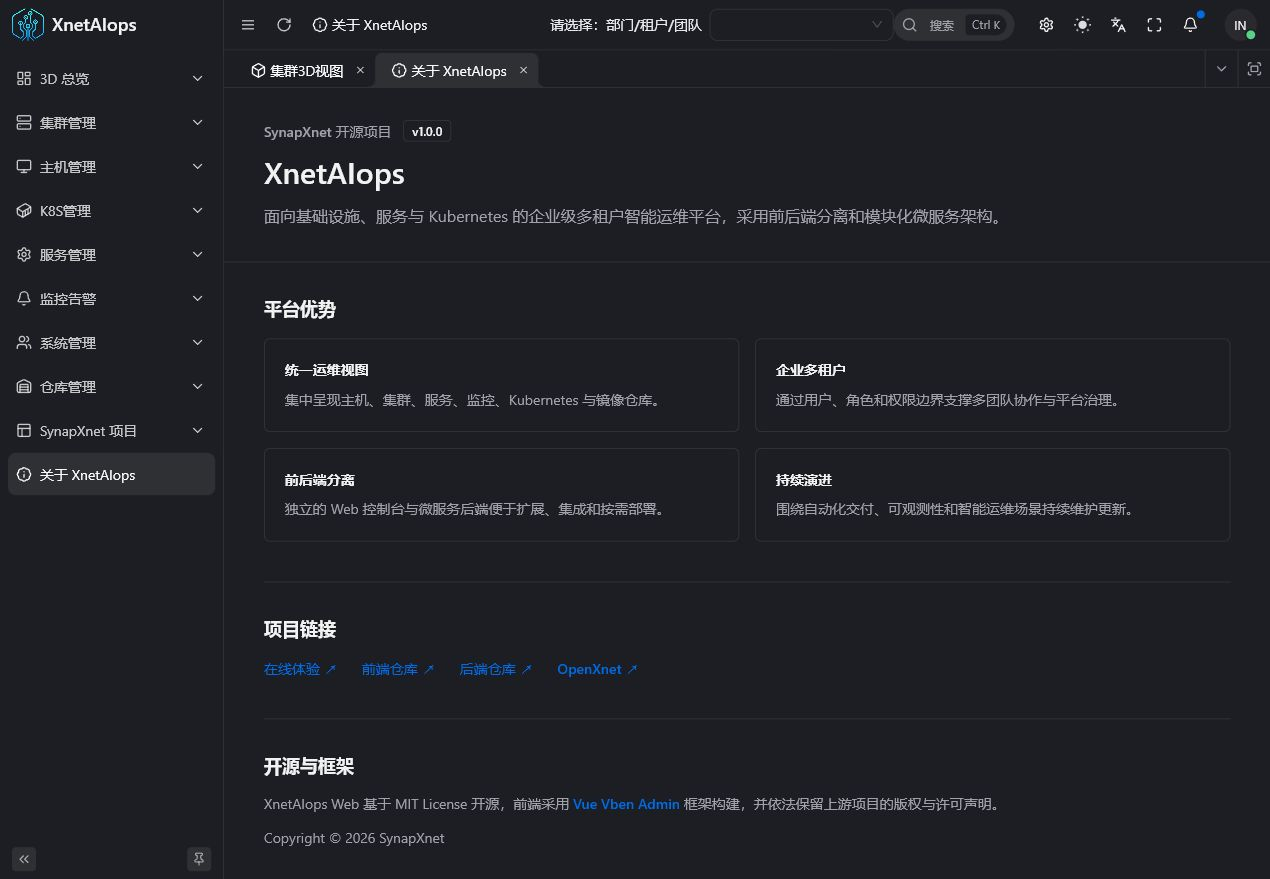
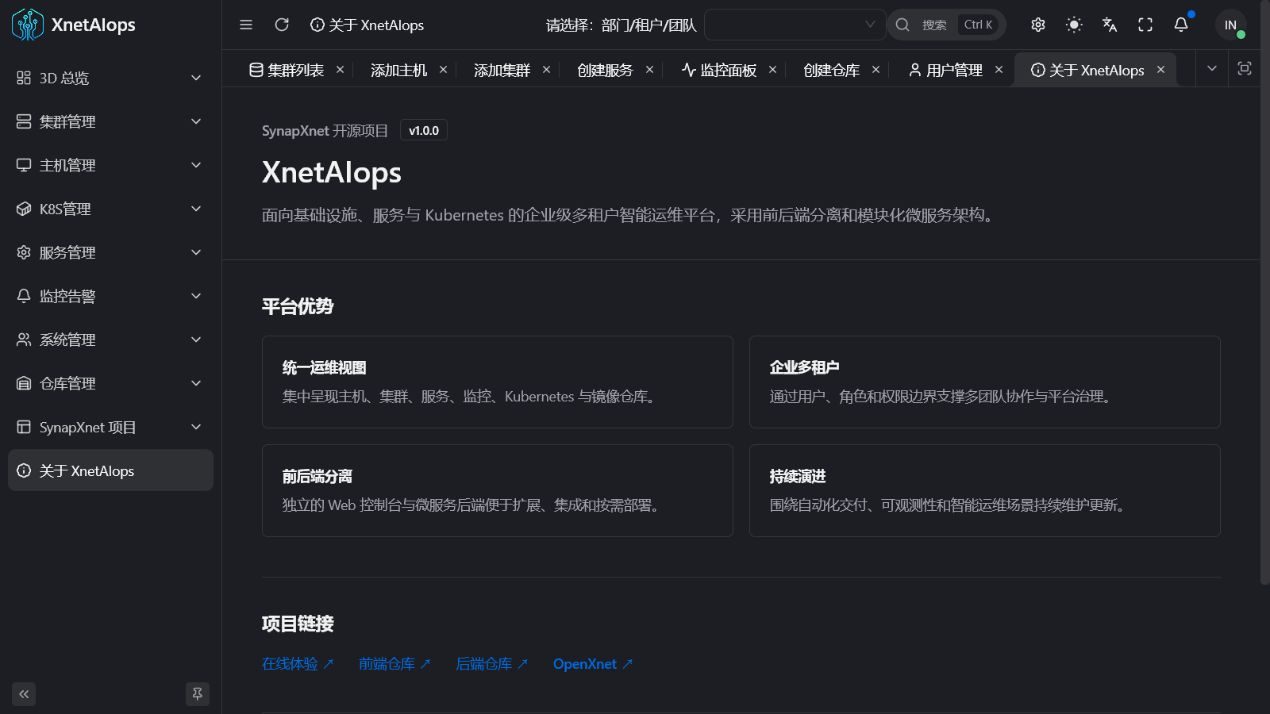
docs: expand XnetAIops screenshot gallery

diff --git a/README.zh-CN.md b/README.zh-CN.md
@@ -1,152 +1,11 @@
-<div align="center"> <a href="https://github.com/anncwb/vue-vben-admin"> <img alt="VbenAdmin Logo" width="215" src="https://unpkg.com/@vbenjs/static-source@0.1.7/source/logo-v1.webp"> </a> <br> <br>
+# XnetAIops Web 中文说明
 
-[![license](https://img.shields.io/github/license/anncwb/vue-vben-admin.svg)](LICENSE)
+XnetAIops Web 是由 **SynapXnet 团队**开源的企业级、多租户智能运维控制台，与后端仓库共同组成前后端分离系统。项目覆盖主机、集群、服务、监控、Kubernetes、镜像仓库与平台权限管理。
 
-<h1>Vue Vben Admin</h1>
-</div>
+完整的项目介绍、模块说明、在线体验、页面截图、部署方式与开源许可统一维护在 [README.md](./README.md)。
 
-[![Quality Gate Status](https://sonarcloud.io/api/project_badges/measure?project=vbenjs_vue-vben-admin&metric=alert_status)](https://sonarcloud.io/summary/new_code?id=vbenjs_vue-vben-admin) ![codeql](https://github.com/vbenjs/vue-vben-admin/actions/workflows/codeql.yml/badge.svg) ![build](https://github.com/vbenjs/vue-vben-admin/actions/workflows/build.yml/badge.svg) ![ci](https://github.com/vbenjs/vue-vben-admin/actions/workflows/ci.yml/badge.svg) ![deploy](https://github.com/vbenjs/vue-vben-admin/actions/workflows/deploy.yml/badge.svg)
+- 在线体验：<https://www.xnetaiops.synapxnet.cn>
+- 后端仓库：[synapxnet/XnetAIops](https://github.com/synapxnet/XnetAIops)
+- OpenXnet 开源社区：<https://openxnet.synapxnet.com>
 
-**中文** | [English](./README.md) | [日本語](./README.ja-JP.md)
-
-## 简介
-
-Vue Vben Admin 是 Vue Vben Admin 的升级版本。作为一个免费开源的中后台模板，它采用了最新的 Vue 3、Vite、TypeScript 等主流技术开发，开箱即用，可用于中后台前端开发，也适合学习参考。
-
-## 升级提示
-
-该版本为最新版本`5.0`, 与其他版本不兼容，如果你是新项目，建议使用最新版本。如果你想查看旧版本，请使用 [v2 分支](https://github.com/vbenjs/vue-vben-admin/tree/v2)
-
-## 特性
-
-- **最新技术栈**：使用 Vue3/vite 等前端前沿技术开发
-- **TypeScript**: 应用程序级 JavaScript 的语言
-- **主题**：提供多套主题色彩，可配置自定义主题
-- **国际化**：内置完善的国际化方案
-- **权限** 内置完善的动态路由权限生成方案
-
-## 预览
-
-- [Vben Admin](https://vben.pro/) - 完整版中文站点
-
-测试账号: vben/123456
-
-<p align="center">
-    <img alt="VbenAdmin Logo" width="100%" src="https://anncwb.github.io/anncwb/images/preview1.png">
-    <img alt="VbenAdmin Logo" width="100%" src="https://anncwb.github.io/anncwb/images/preview2.png">
-    <img alt="VbenAdmin Logo" width="100%" src="https://anncwb.github.io/anncwb/images/preview3.png">
-</p>
-
-### 使用 Gitpod
-
-在 Gitpod（适用于 GitHub 的免费在线开发环境）中打开项目，并立即开始编码.
-
-[![Open in Gitpod](https://gitpod.io/button/open-in-gitpod.svg)](https://gitpod.io/#https://github.com/vbenjs/vue-vben-admin)
-
-## 文档
-
-[文档地址](https://doc.vben.pro/)
-
-## 安装使用
-
-- 获取项目代码
-
-```bash
-git clone https://github.com/vbenjs/vue-vben-admin.git
-```
-
-- 安装依赖
-
-```bash
-cd vue-vben-admin
-
-corepack enable
-
-pnpm install
-```
-
-- 运行
-
-```bash
-pnpm dev
-```
-
-- 打包
-
-```bash
-pnpm build
-```
-
-## 更新日志
-
-[CHANGELOG](https://github.com/vbenjs/vue-vben-admin/releases)
-
-## 如何贡献
-
-非常欢迎你的加入！[提一个 Issue](https://github.com/anncwb/vue-vben-admin/issues/new/choose) 或者提交一个 Pull Request。
-
-**Pull Request:**
-
-1. Fork 代码!
-2. 创建自己的分支: `git checkout -b feature/xxxx`
-3. 提交你的修改: `git commit -am 'feat(function): add xxxxx'`
-4. 推送您的分支: `git push origin feature/xxxx`
-5. 提交`pull request`
-
-## Git 贡献提交规范
-
-- 参考 [vue](https://github.com/vuejs/vue/blob/dev/.github/COMMIT_CONVENTION.md) 规范 ([Angular](https://github.com/conventional-changelog/conventional-changelog/tree/master/packages/conventional-changelog-angular))
-
-  - `feat` 增加新功能
-  - `fix` 修复问题/BUG
-  - `style` 代码风格相关无影响运行结果的
-  - `perf` 优化/性能提升
-  - `refactor` 重构
-  - `revert` 撤销修改
-  - `test` 测试相关
-  - `docs` 文档/注释
-  - `chore` 依赖更新/脚手架配置修改等
-  - `ci` 持续集成
-  - `types` 类型定义文件更改
-  - `wip` 开发中
-
-## 浏览器支持
-
-本地开发推荐使用`Chrome 80+` 浏览器
-
-支持现代浏览器, 不支持 IE
-
-| [<img src="https://raw.githubusercontent.com/alrra/browser-logos/master/src/edge/edge_48x48.png" alt=" Edge" width="24px" height="24px" />](http://godban.github.io/browsers-support-badges/)</br>IE | [<img src="https://raw.githubusercontent.com/alrra/browser-logos/master/src/edge/edge_48x48.png" alt=" Edge" width="24px" height="24px" />](http://godban.github.io/browsers-support-badges/)</br>Edge | [<img src="https://raw.githubusercontent.com/alrra/browser-logos/master/src/firefox/firefox_48x48.png" alt="Firefox" width="24px" height="24px" />](http://godban.github.io/browsers-support-badges/)</br>Firefox | [<img src="https://raw.githubusercontent.com/alrra/browser-logos/master/src/chrome/chrome_48x48.png" alt="Chrome" width="24px" height="24px" />](http://godban.github.io/browsers-support-badges/)</br>Chrome | [<img src="https://raw.githubusercontent.com/alrra/browser-logos/master/src/safari/safari_48x48.png" alt="Safari" width="24px" height="24px" />](http://godban.github.io/browsers-support-badges/)</br>Safari |
-| :-: | :-: | :-: | :-: | :-: |
-| not support | last 2 versions | last 2 versions | last 2 versions | last 2 versions |
-
-## 维护者
-
-[@Vben](https://github.com/anncwb)
-
-## Star History
-
-[![Star History Chart](https://api.star-history.com/svg?repos=vbenjs/vue-vben-admin&type=Date)](https://star-history.com/#vbenjs/vue-vben-admin&Date)
-
-## 捐赠
-
-如果你觉得这个项目对你有帮助，你可以帮作者买一杯咖啡表示支持!
-
-![donate](https://unpkg.com/@vbenjs/static-source@0.1.7/source/sponsor.png)
-
-<a style="display: block;width: 100px;height: 50px;line-height: 50px; color: #fff;text-align: center; background: #408aed;border-radius: 4px;" href="https://www.paypal.com/paypalme/cvvben">Paypal Me</a>
-
-## Contributor
-
-<a href="https://github.com/vbenjs/vue-vben-admin/graphs/contributors">
-  <img alt="Contributors"
-        src="https://opencollective.com/vbenjs/contributors.svg?button=false" />
-</a>
-
-## Discord
-
-- [Github Discussions](https://github.com/anncwb/vue-vben-admin/discussions)
-
-## License
-
-[MIT © Vben-2020](./LICENSE)
+前端基于 Vue 3、TypeScript、Ant Design Vue，并采用 [Vue Vben Admin](https://github.com/vbenjs/vue-vben-admin) 框架构建。项目遵循 MIT License，并依法保留上游框架的版权与许可声明。

diff --git a/README.md b/README.md
@@ -17,6 +17,14 @@
 | 演示登录 | 关于项目 |
 | --- | --- |
 | ![XnetAIops 演示登录](./docs/images/xnetaiops-login.png) | ![XnetAIops 关于项目](./docs/images/xnetaiops-about.png) |
+| 集群管理 | 主机接入 |
+| ![XnetAIops 集群管理](./docs/images/xnetaiops-clusters.png) | ![XnetAIops 主机接入](./docs/images/xnetaiops-host-add.png) |
+| Kubernetes 集群 | 服务编排 |
+| ![XnetAIops Kubernetes 集群](./docs/images/xnetaiops-kubernetes.png) | ![XnetAIops 服务编排](./docs/images/xnetaiops-service.png) |
+| 监控告警 | 镜像仓库 |
+| ![XnetAIops 监控告警](./docs/images/xnetaiops-monitor.png) | ![XnetAIops 镜像仓库](./docs/images/xnetaiops-registry.png) |
+| 多租户用户 | 3D 总览 |
+| ![XnetAIops 多租户用户](./docs/images/xnetaiops-users.png) | ![XnetAIops 集群 3D 总览](./docs/images/xnetaiops-overview.jpg) |
 
 ## 项目简介
 
